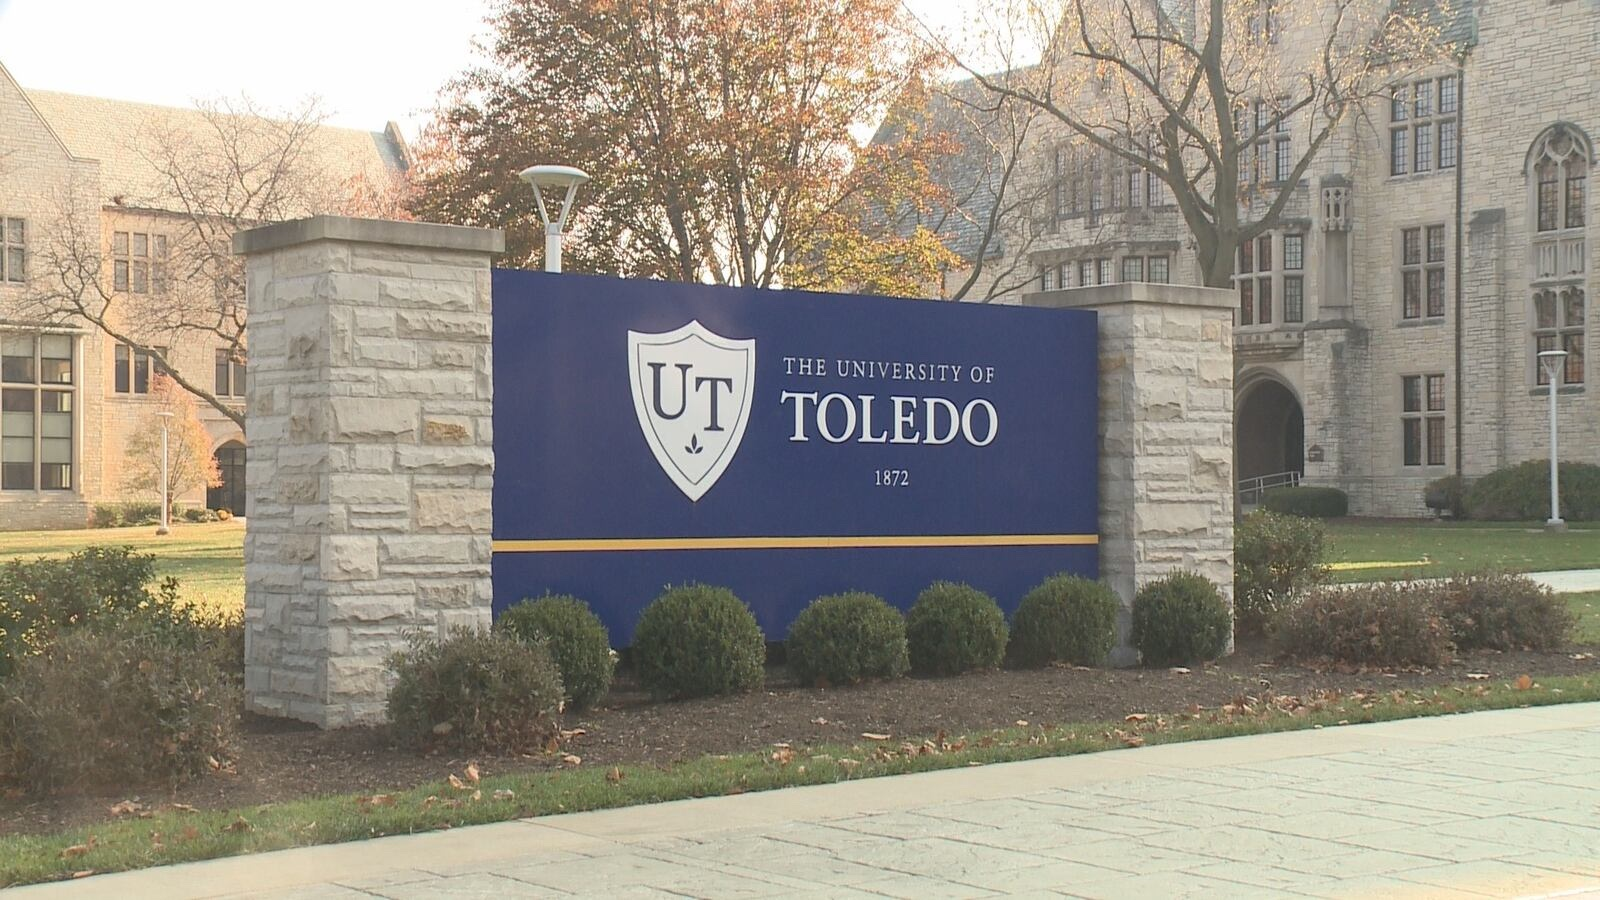
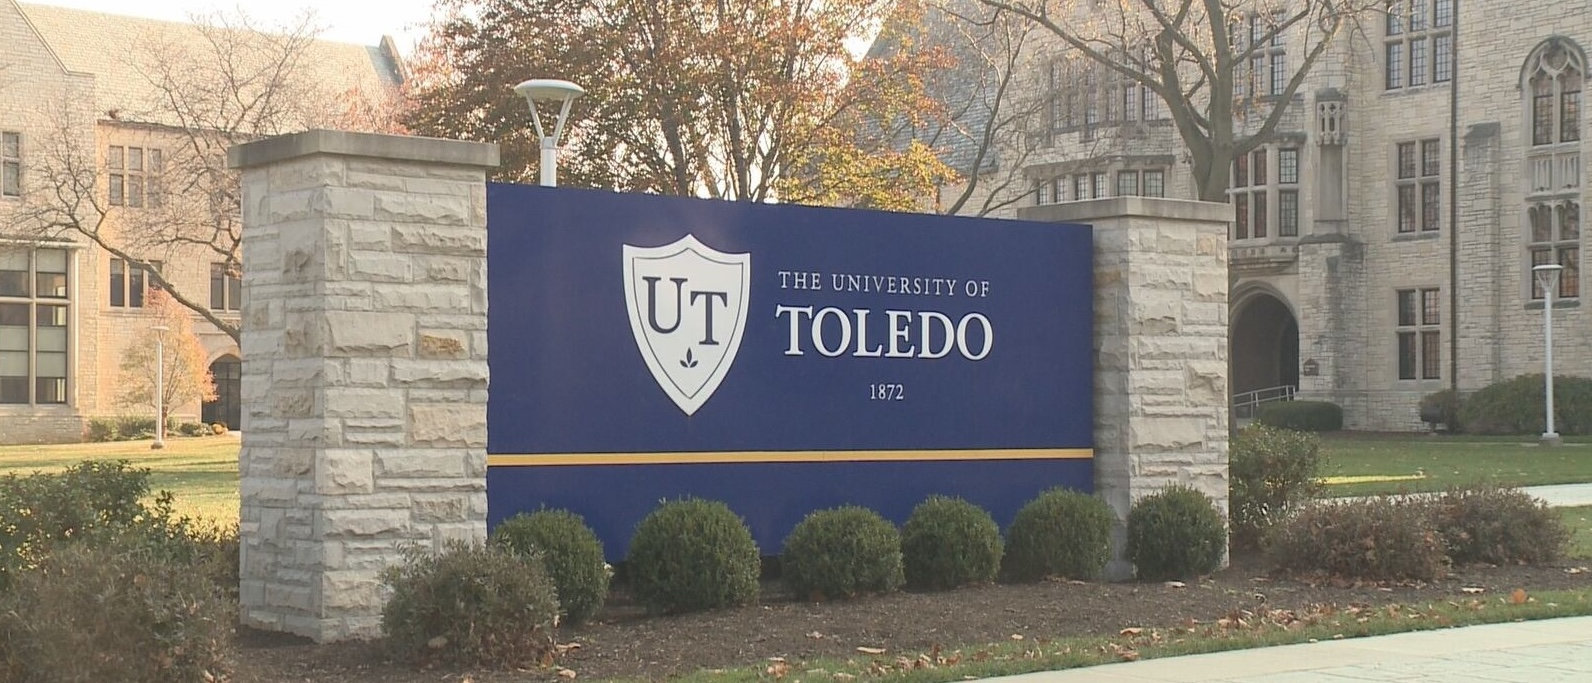
Update cropped homepage campus photo

diff --git a/index.html b/index.html
@@ -106,7 +106,7 @@
 				</div>
 			</section>
 
-			<img class="campus-photo" src="images/utoledo-campus-entrance.jpg" alt="University of Toledo entrance sign and campus buildings" width="1600" height="900" />
+			<img class="campus-photo" src="images/utoledo-campus-entrance.jpg" alt="University of Toledo entrance sign and campus buildings" width="1592" height="683" />
 		</main>
 
 		<footer class="site-footer">
